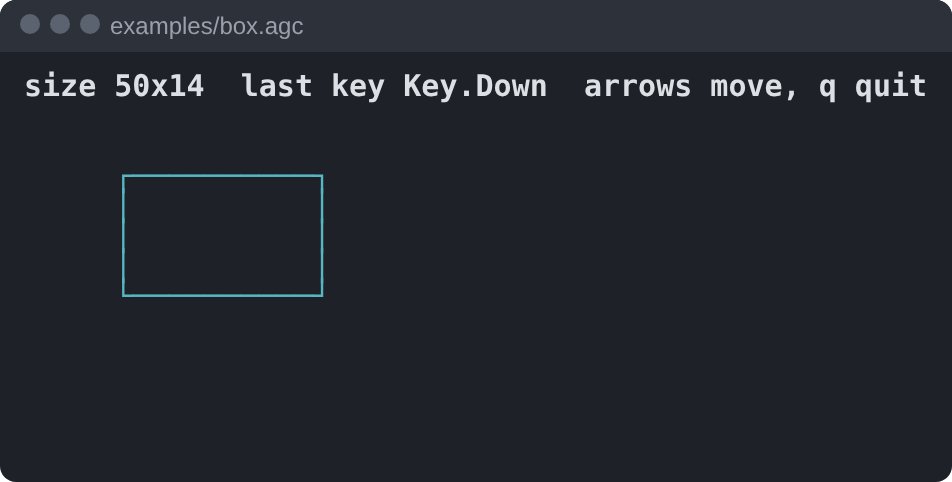
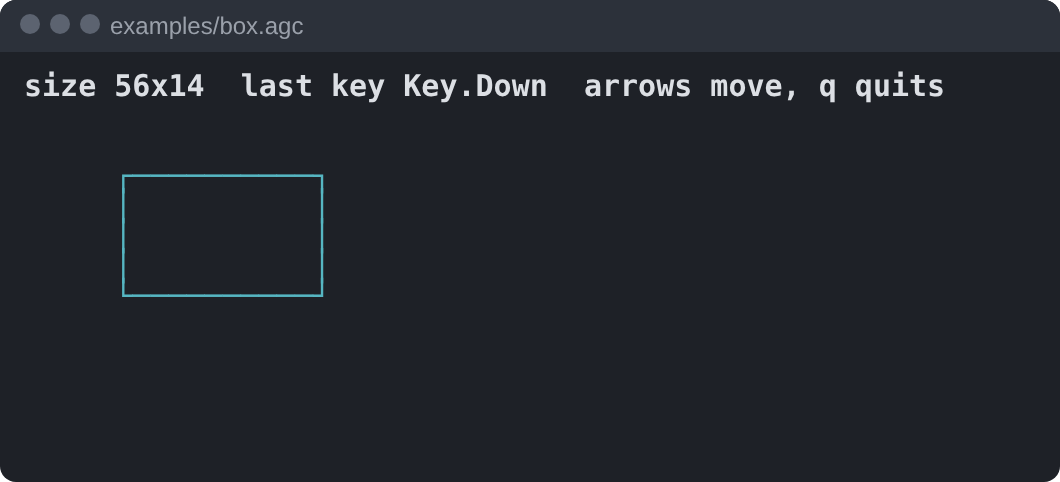
Image hook: page resources, then assets, else the URL as written; box.png at 56 columns
The hook looks a relative path up in the page's resources, then in
site/assets/, and fails once when neither has it; a URL or an absolute path
is used as written. It keeps the title, and sets width and height only for
a raster image it found. box.png is taken at 56 columns, so the status line
shows "q quits" whole.

diff --git a/site/layouts/_markup/render-image.html b/site/layouts/_markup/render-image.html
@@ -1,4 +1,17 @@
-{{- /* An image is a file of site/assets/, a screenshot taken at twice its size: it shows at half its pixels. */ -}}
-{{- $img := resources.Get (strings.TrimPrefix "/" .Destination) -}}
-{{- if not $img }}{{ errorf "%s: no image %q in site/assets/" .Page.Path .Destination }}{{ end -}}
-<img src="{{ $img.RelPermalink }}" alt="{{ .Text }}" width="{{ div $img.Width 2 }}" height="{{ div $img.Height 2 }}" loading="lazy" style="max-width:100%;height:auto">
+{{- /* A relative path is a resource of the page, else a file of site/assets/: a screenshot taken at twice its size,
+shown at half its pixels. A URL or an absolute path is used as written. */ -}}
+{{- $u := urls.Parse .Destination -}}
+{{- $src := .Destination -}}
+{{- $img := false -}}
+{{- if not (or $u.IsAbs (hasPrefix $u.Path "/")) -}}
+  {{- $path := strings.TrimPrefix "./" $u.Path -}}
+  {{- with or (.PageInner.Resources.Get $path) (resources.Get $path) -}}
+    {{- $img = . -}}
+    {{- $src = .RelPermalink -}}
+  {{- else -}}
+    {{- errorf "%s: no image %q in the page or site/assets/" .Page.Path .Destination -}}
+  {{- end -}}
+{{- end -}}
+<img src="{{ $src }}" alt="{{ .Text }}"
+{{- with .Title }} title="{{ . }}"{{ end }}
+{{- if and $img (eq $img.MediaType.MainType "image") (ne $img.MediaType.SubType "svg") }} width="{{ div $img.Width 2 }}" height="{{ div $img.Height 2 }}"{{ end }} loading="lazy" style="max-width:100%;height:auto">
